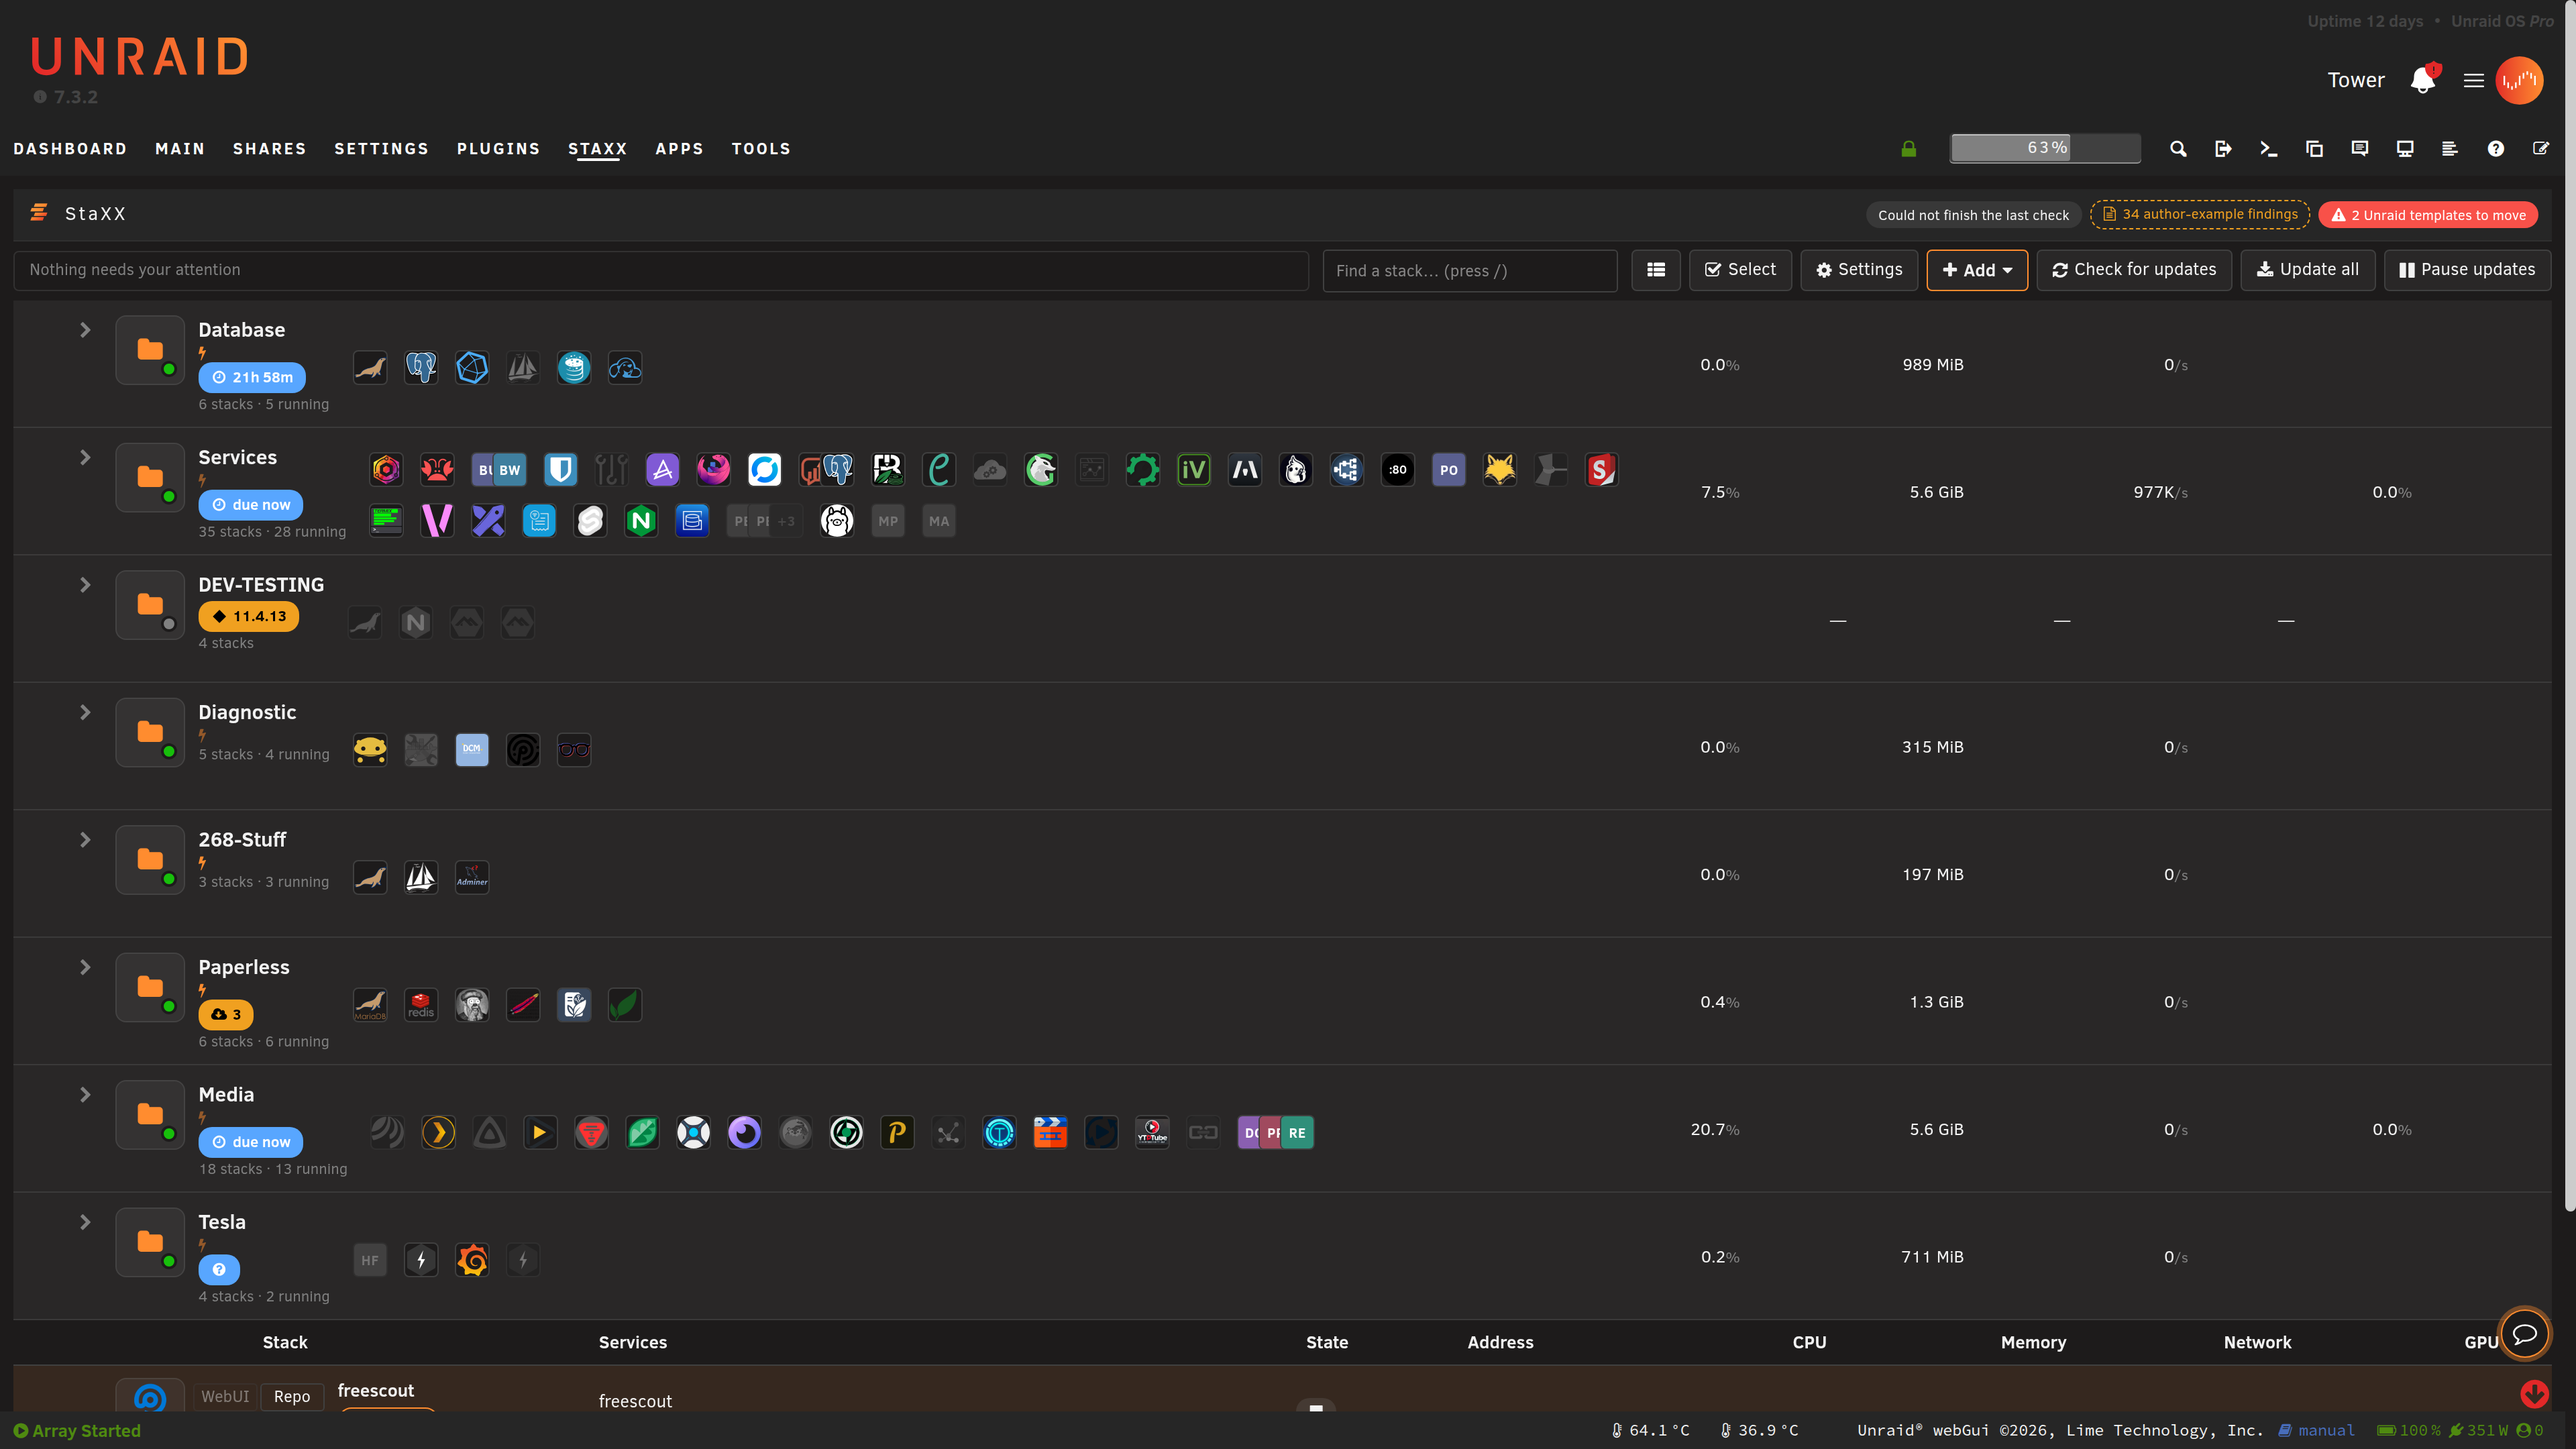
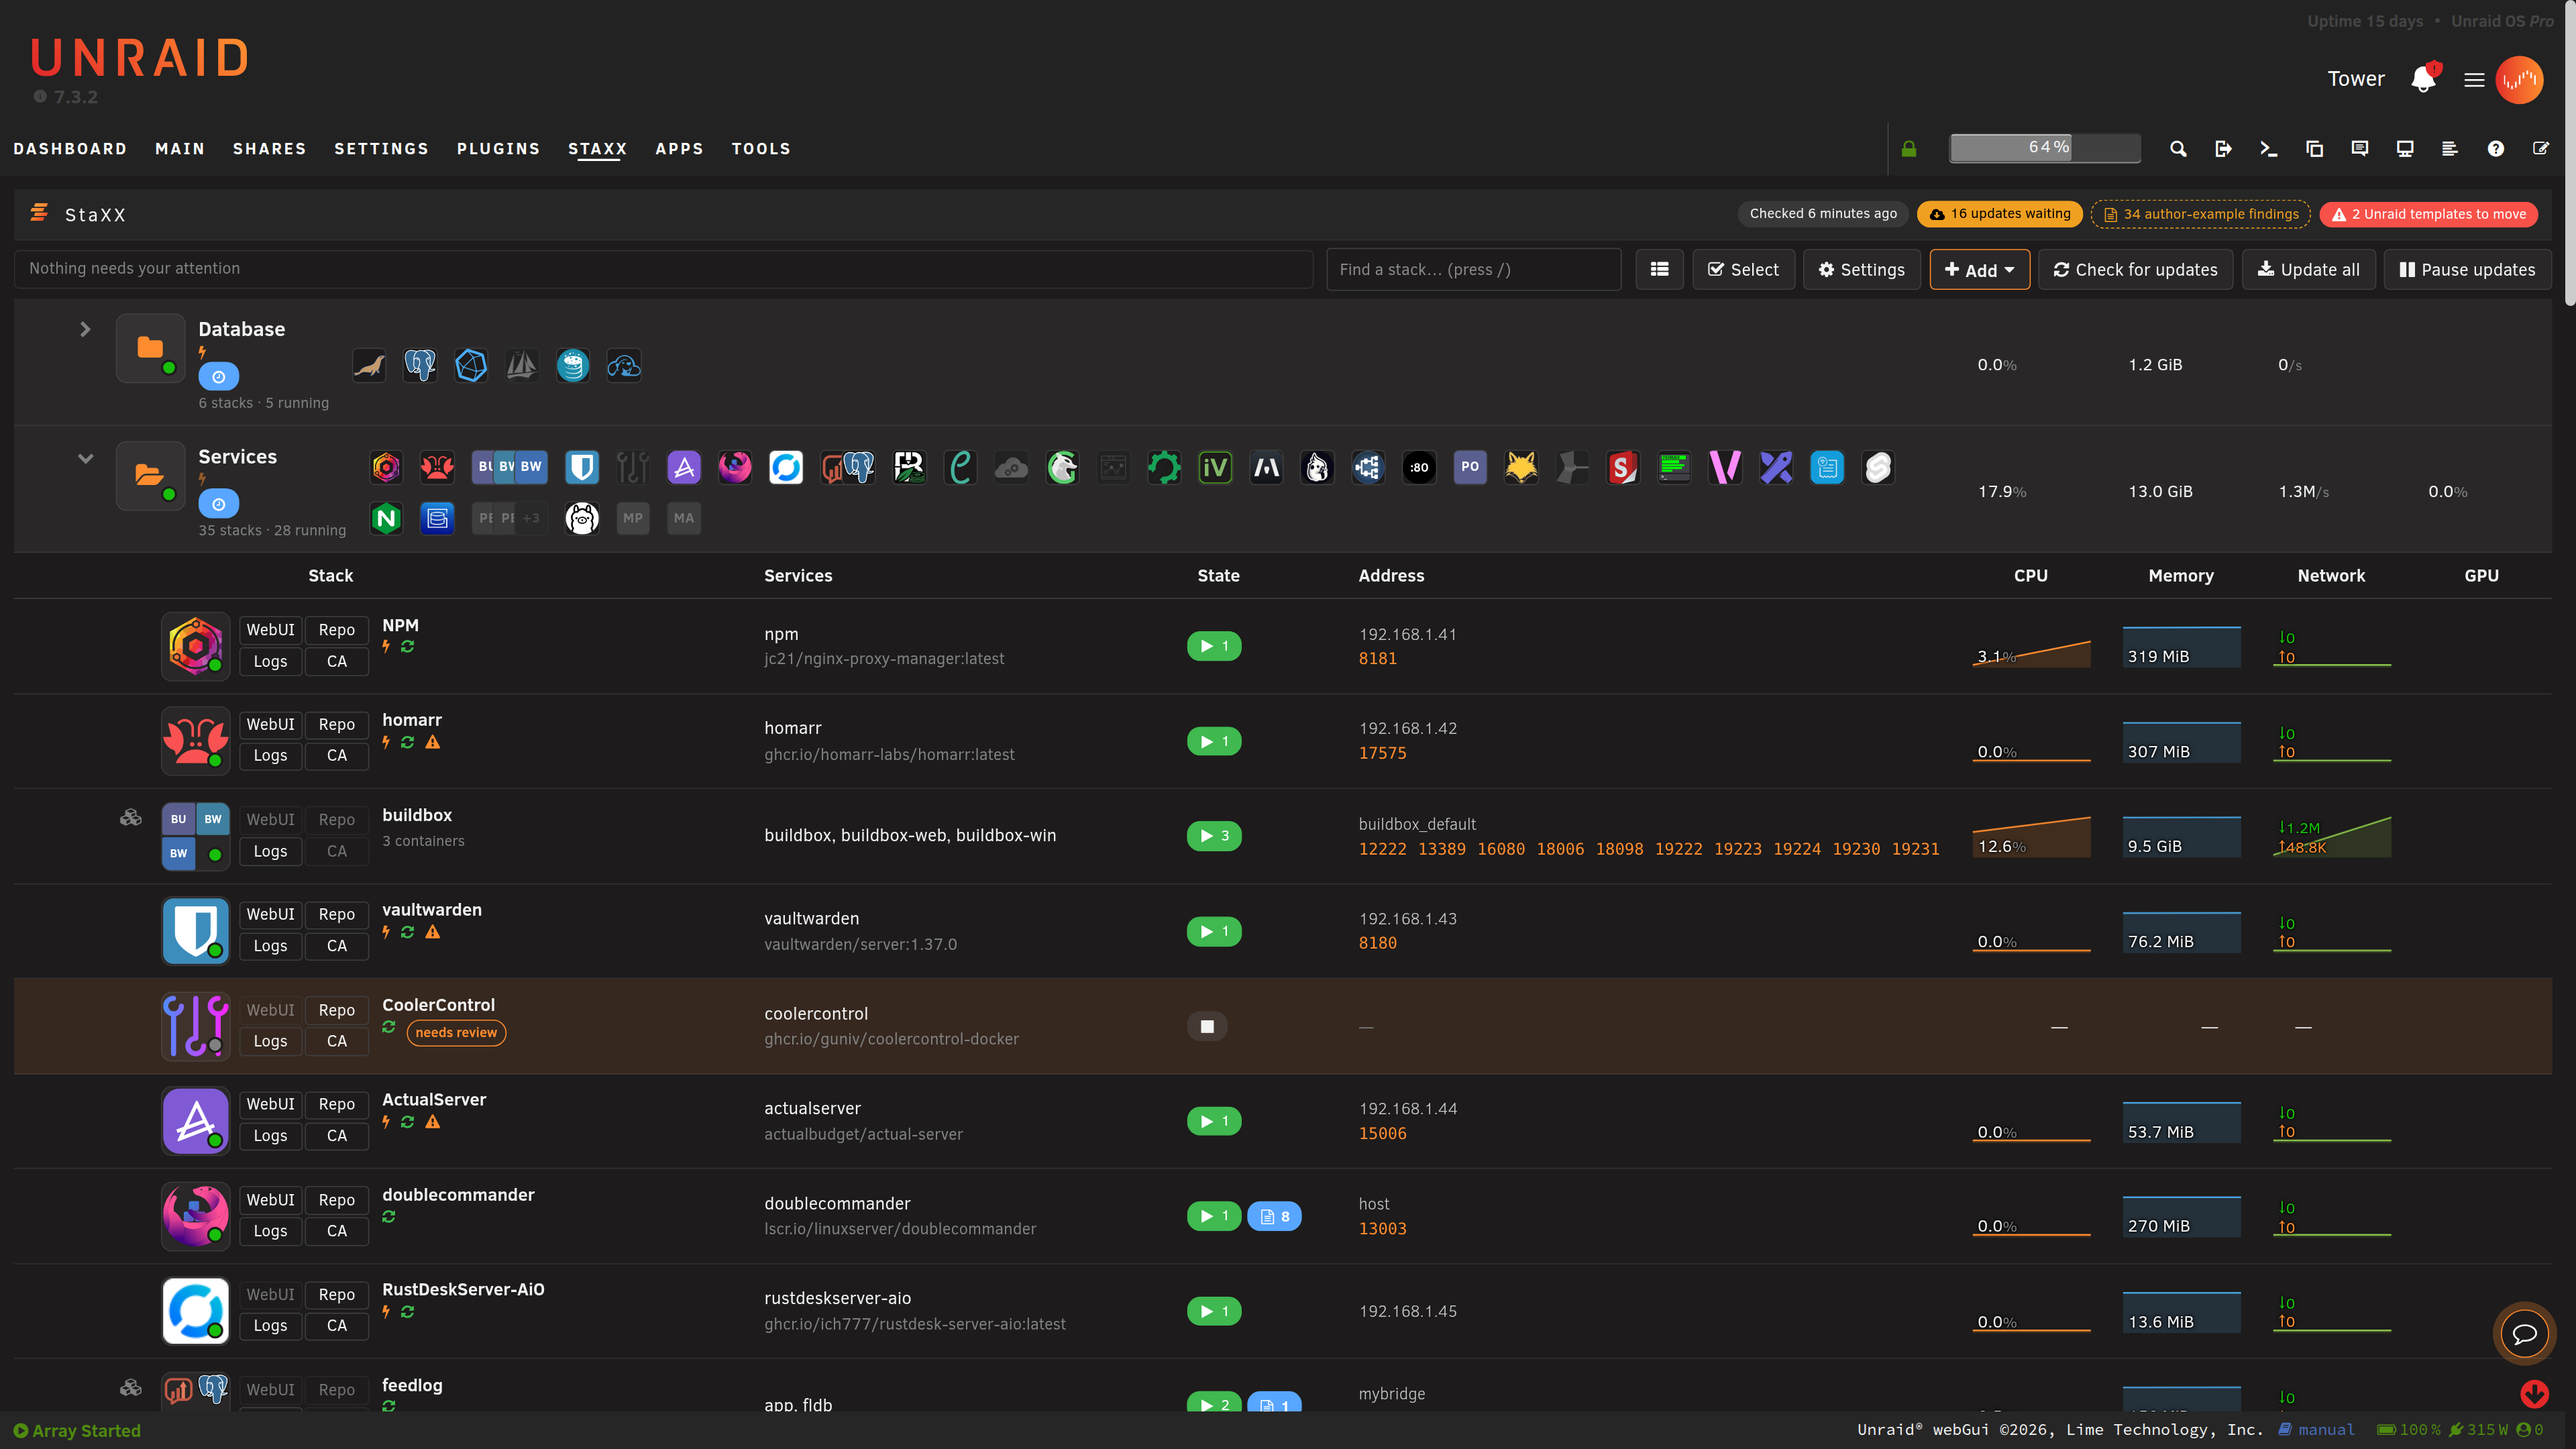
Guide: stack list pictures show figures inside their graphs and ports under the network name (PLAN_235)
Eleven pictures retaken across the stack list, row marks, updates, update
rules and merging pages, with the descriptions and the Address row reworded
to match.

Claude-Session: https://claude.ai/code/session_01Ry2wVp5QX4B8cLWsrzxL6R

diff --git a/docs/guide/the-stack-list.md b/docs/guide/the-stack-list.md
@@ -67,18 +67,17 @@ At the right end of the title bar, next to "StaXX", small tags say how the last 
 The column titles sit directly above each folder's own stacks, not once at the top of the whole
 list. The loose stacks below the last folder get a row of titles of their own too.
 
-![The column headings, Stack, Services, State, Address, CPU, Memory, Network and GPU, above two stacks, one running and one stopped](../images/guide/the-stack-list-columns.png)
+![The column headings, Stack, Services, State, Address, CPU, Memory, Network and GPU, above three running stacks, NPM, homarr and buildbox, each with its address or network name above its ports and its figures inside small graphs](../images/guide/the-stack-list-columns.png)
 | Column | What it shows |
 |---|---|
 | Stack | The stack's name, its icon, and its state marks. |
 | Services | The service names inside it, or an error if the file will not read. |
 | State | Running or stopped, plus any update or restart mark. |
-| Address | Where the stack answers — an address, or a network name. |
-| CPU | The stack's share of the whole processor, from 0 to 100%, with a small graph. |
-| Memory | Memory use, with a small graph. |
-| Network | Network traffic, with a small graph. |
-| GPU | A coloured badge (Intel, AMD or NVIDIA\*) for a stack whose file asks for a graphics card, plus a use figure and small graph while it is running. The badge stays even when the stack is stopped. The column only appears when a stack on the page has one. |
-| Ports | The ports Docker is actually forwarding, plus the one a service's web page answers on. A stack with its own network address, or on host networking, shows none. |
+| Address | Where the stack answers: an address or a network name, with its ports underneath. The ports are the ones forwarded to the stack, plus the one a service's web page answers on. A stack with its own network address, or on host networking, shows none. |
+| CPU | The stack's share of the whole processor, from 0 to 100%, inside a small graph. |
+| Memory | Memory use, inside a small graph. |
+| Network | Network traffic, inside a small graph. |
+| GPU | A coloured badge (Intel, AMD or NVIDIA\*) for a stack whose file asks for a graphics card, plus a use figure inside a small graph while it is running. The badge stays even when the stack is stopped. The column only appears when a stack on the page has one. |
 
 \* NVIDIA is coming in a later update.
 
@@ -121,7 +120,7 @@ services as cards of their own.
 Two more parts are only on a stack holding more than one container. A cubes button left of the app
 picture opens and closes its container list. A line under the name counts its containers.
 
-![The buildbox stack opened with its cubes button: its own row with both app pictures, 2 containers under the name and a running chip, then one indented row each for buildbox and buildbox-web with their image, state and address, between the NPM, homarr and vaultwarden rows](../images/guide/the-stack-list-row-expanded.png)
+![The buildbox stack opened with its cubes button: its own row with its app pictures, 3 containers under the name and a running chip, then one indented row each for buildbox, buildbox-web and buildbox-win with their image, state and address, between the NPM and homarr rows above and vaultwarden below](../images/guide/the-stack-list-row-expanded.png)
 
 Each container gets its own row under the stack, with its image, state and address.
 
@@ -249,7 +248,7 @@ Click its picture to open the folder menu.
 
 ## Reordering the list
 
-![The StaXX page unlocked: the padlock in Unraid's top bar ringed and showing red, and a drag handle at the left of every folder row and of each stack row in the open Database folder](../images/guide/the-stack-list-unlocked.png)
+![The StaXX page unlocked: the padlock in Unraid's top bar ringed and showing red, and a drag handle at the left of every folder row and of each stack row in the open Services folder](../images/guide/the-stack-list-unlocked.png)
 
 The page opens locked. To change the order:
 

diff --git a/docs/guide/updates.md b/docs/guide/updates.md
@@ -159,7 +159,7 @@ bars underneath show the download and the unpacking, each with a percentage and 
 total has been handled so far. Once the container starts, the panel slides away and the row
 underneath shows again, with its own controls back.
 
-![A stack row mid-update: over its Services and State columns sits a dark panel headed "Downloading the image · 8 of 23 layers done · a few seconds left", with a Download bar reading 79% · 32.2 MiB of 71.3 MiB and an Unpack bar reading 35% · 11.3 MiB of 71.3 MiB, the rows above and below unchanged](../images/guide/updates-pull-progress.png)
+![A stack row mid-update: over its Services, State and Address columns sits a dark panel headed "Downloading the image · 8 of 23 layers done · a few seconds left", with a Download bar reading 79% · 32.2 MiB of 71.3 MiB and an Unpack bar reading 35% · 11.3 MiB of 71.3 MiB, the rows above and below unchanged](../images/guide/updates-pull-progress.png)
 
 ## Pause and update all
 

diff --git a/docs/guide/marks.md b/docs/guide/marks.md
@@ -73,7 +73,7 @@ tell a live chip from a still one.
 
 The first chip on a stack or container row.
 
-![A folder row with four stack rows beneath it, each showing the app's logo, its name, a green "up" pill or a grey "stopped" one, the address it is reachable on, and columns of processor, memory and network figures](../images/guide/marks-row-states.png)
+![A folder row with four stack rows beneath it, each showing the app's logo, its name, a green running chip or a grey stop mark, the address it is reachable on with its ports underneath, and its processor, memory and network figures inside small graphs](../images/guide/marks-row-states.png)
 
 | Looks like | Means | What to do |
 |---|---|---|
